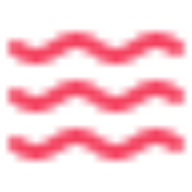
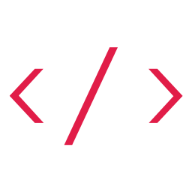
Update branding

diff --git a/pages/api/og.tsx b/pages/api/og.tsx
@@ -36,55 +36,31 @@ export default async function handler(req: NextRequest) {
       (
         <div tw="h-full w-full flex flex-col items-center justify-center bg-slate-300">
           <div
-            tw="flex flex-row items-center"
+            tw="flex flex-row items-center text-7xl"
             style={{
               marginBottom: title ? '8rem' : '0rem',
+              fontFamily: 'Red Hat Display',
             }}
           >
-            <div tw="h-full flex items-center justify-center">
-              <svg
-                xmlns="http://www.w3.org/2000/svg"
-                width="64"
-                height="64"
-                viewBox="0 0 32 32"
-                fill="none"
-                stroke="#BE123C"
-                opacity={0.4}
-                stroke-width="2"
-                stroke-linecap="round"
-                stroke-linejoin="round"
-                aria-hidden="true"
-              >
-                <path d="M2 6c.6.5 1.2 1 2.5 1C7 7 7 5 9.5 5c2.6 0 2.4 2 5 2 2.5 0 2.5-2 5-2 1.3 0 1.9.5 2.5 1"></path>
-                <path d="M2 12c.6.5 1.2 1 2.5 1 2.5 0 2.5-2 5-2 2.6 0 2.4 2 5 2 2.5 0 2.5-2 5-2 1.3 0 1.9.5 2.5 1"></path>
-                <path d="M2 18c.6.5 1.2 1 2.5 1 2.5 0 2.5-2 5-2 2.6 0 2.4 2 5 2 2.5 0 2.5-2 5-2 1.3 0 1.9.5 2.5 1"></path>
-              </svg>
-            </div>
+            <div tw="text-rose-600 dark:text-rose-400">‹</div>
             <h1
-              tw="h-full mx-2 text-7xl text-center text-slate-800"
-              style={{ fontFamily: 'Red Hat Display Bold' }}
+              tw="mx-0.5 font-semibold whitespace-nowrap text-center drop-shadow-sm text-slate-800 hover:text-rose-600 dark:text-rose-50 dark:hover:text-rose-400"
+              style={{
+                fontFamily: 'Red Hat Display Bold',
+              }}
             >
-              Kfir&apos;s Blog
-            </h1>
-            <div tw="h-full flex items-center justify-center ml-3">
-              <svg
-                xmlns="http://www.w3.org/2000/svg"
-                width="64"
-                height="64"
-                viewBox="0 0 32 32"
-                fill="none"
-                stroke="#BE123C"
-                opacity={0.4}
-                stroke-width="2"
-                stroke-linecap="round"
-                stroke-linejoin="round"
-                aria-hidden="true"
+              kfir
+              <span
+                tw="px-px font-light text-rose-600 dark:text-rose-400"
+                style={{
+                  fontFamily: 'Red Hat Display',
+                }}
               >
-                <path d="M2 6c.6.5 1.2 1 2.5 1C7 7 7 5 9.5 5c2.6 0 2.4 2 5 2 2.5 0 2.5-2 5-2 1.3 0 1.9.5 2.5 1"></path>
-                <path d="M2 12c.6.5 1.2 1 2.5 1 2.5 0 2.5-2 5-2 2.6 0 2.4 2 5 2 2.5 0 2.5-2 5-2 1.3 0 1.9.5 2.5 1"></path>
-                <path d="M2 18c.6.5 1.2 1 2.5 1 2.5 0 2.5-2 5-2 2.6 0 2.4 2 5 2 2.5 0 2.5-2 5-2 1.3 0 1.9.5 2.5 1"></path>
-              </svg>
-            </div>
+                /
+              </span>
+              blog
+            </h1>
+            <div tw="text-rose-600 dark:text-rose-400">›</div>
           </div>
 
           <div

diff --git a/components/blog-title.tsx b/components/blog-title.tsx
@@ -1,51 +1,38 @@
 'use client';
 
 import { useThemeStore } from '@/stores/theme-store';
-import { Waves } from 'lucide-react';
 import { cn } from '@/lib/utils';
 
 type BlogTitleProps = {
-  title?: string;
-  small?: boolean;
+  className?: string;
 };
 
-export function BlogTitle({ title = "Kfir's Blog", small }: BlogTitleProps) {
+export function BlogTitle({ className }: BlogTitleProps) {
   const isSerif = useThemeStore((state) => state.isSerif);
 
   return (
     <div
       className={cn(
-        small ? 'items-center' : 'items-baseline',
-        'inline-flex w-full justify-center',
+        'inline-flex w-full items-center justify-center',
+        className,
       )}
     >
-      <Waves
-        className={cn(
-          small ? 'h-4 w-4' : 'h-8 w-8',
-          'text-rose-700 text-opacity-40 dark:text-rose-400',
-        )}
-        aria-hidden
-      />
+      <div className="text-rose-600 dark:text-rose-400">‹</div>
       <h1
         className={cn(
           isSerif && 'font-serif',
-          small
-            ? 'mx-0.5 text-lg font-semibold'
-            : 'mx-2 pb-1.5 text-5xl font-bold sm:text-6xl',
-          'whitespace-nowrap text-center drop-shadow-sm',
+          'mx-0.5 font-semibold whitespace-nowrap text-center drop-shadow-sm',
           'text-slate-800 hover:text-rose-600',
           'dark:text-rose-50 dark:hover:text-rose-400',
         )}
       >
-        {title}
+        kfir
+        <span className="px-px font-light text-rose-600 dark:text-rose-400">
+          /
+        </span>
+        blog
       </h1>
-      <Waves
-        className={cn(
-          small ? 'h-4 w-4' : 'h-8 w-8',
-          'text-rose-700 text-opacity-40 dark:text-rose-400',
-        )}
-        aria-hidden
-      />
+      <div className="text-rose-600 dark:text-rose-400">›</div>
     </div>
   );
 }

diff --git a/components/seo.tsx b/components/seo.tsx
@@ -31,7 +31,24 @@ export function SEO({
       <meta name="twitter:site" content="@kp2c" />
       <meta name="twitter:creator" content="@kp2c" />
       <meta content="width=device-width, initial-scale=1" name="viewport" />
-      <link rel="icon" href="/favicon.ico" />
+      <link
+        rel="apple-touch-icon"
+        sizes="180x180"
+        href="/apple-touch-icon.png"
+      />
+      <link
+        rel="icon"
+        type="image/png"
+        sizes="32x32"
+        href="/favicon-32x32.png"
+      />
+      <link
+        rel="icon"
+        type="image/png"
+        sizes="16x16"
+        href="/favicon-16x16.png"
+      />
+      <link rel="manifest" href="/site.webmanifest" />
     </>
   );
 }

diff --git a/components/stories/blog-title.stories.tsx b/components/stories/blog-title.stories.tsx
@@ -6,9 +6,6 @@ const meta: Meta<typeof BlogTitle> = {
   title: 'Blog Title',
   component: BlogTitle,
   decorators: [Center],
-  args: {
-    title: "Kfir's Blog",
-  },
 };
 
 export default meta;
@@ -16,12 +13,12 @@ type Story = StoryObj<typeof BlogTitle>;
 
 export const Big: Story = {
   args: {
-    small: false,
+    className: 'text-6xl',
   },
 };
 
 export const Small: Story = {
   args: {
-    small: true,
+    className: 'text-lg',
   },
 };

diff --git a/app/head.tsx b/app/head.tsx
@@ -3,7 +3,7 @@ import { SEO } from '@/components/seo';
 export default function Head() {
   return (
     <SEO
-      title="Kfir's Blog"
+      title="‹kfir/blog›"
       description="My name is Kfir and I'm a Full Stack Developer.
       Welcome to my personal dev blog! I write about Web Development and other topics I'm interested in."
     />

diff --git a/app/posts/head.tsx b/app/posts/head.tsx
@@ -3,7 +3,7 @@ import { SEO } from '@/components/seo';
 export default function PostsPageHead() {
   return (
     <SEO
-      title="Kfir's Blog | Posts"
+      title="‹kfir/blog› | Posts"
       description="All my blog posts. I write about Web Development and other topics I'm interested in."
       ogImage={{ title: 'Posts' }}
     />

diff --git a/components/navigation-bar.tsx b/components/navigation-bar.tsx
@@ -24,7 +24,7 @@ export function NavigationBar({ className }: NavigationBarProps) {
         Posts
       </Link>
       <Link href="/" className="order-1 mr-2 xs:mr-4 sm:order-2">
-        <BlogTitle small />
+        <BlogTitle className="text-lg" />
       </Link>
       <Link
         href="/about"

diff --git a/app/posts/[...slug]/head.tsx b/app/posts/[...slug]/head.tsx
@@ -17,7 +17,7 @@ export default function PostPageHead({ params }: PostPageHeadProps) {
 
   return (
     <SEO
-      title={`Kfir's Blog | ${title}`}
+      title={`‹kfir/blog› | ${title}`}
       description={excerpt}
       ogType="article"
       ogImage={{

diff --git a/app/[...slug]/head.tsx b/app/[...slug]/head.tsx
@@ -17,7 +17,7 @@ export default async function PageHead({ params }: PageHeadProps) {
 
   return (
     <SEO
-      title={`Kfir's Blog | ${title}`}
+      title={`‹kfir/blog› | ${title}`}
       description={description}
       ogImage={{ title }}
     />

diff --git a/README.md b/README.md
@@ -1,4 +1,4 @@
-[![Kfir's Blog](https://user-images.githubusercontent.com/37262772/213295339-5db10dec-0fe4-45da-8689-3ba2e1bfb11d.png)](https://blog.kfirfitousi.com)  
+[![‹kfir/blog›](https://user-images.githubusercontent.com/37262772/213866538-70e7024e-64f5-4bd8-ba92-af803e6169e7.png)](https://blog.kfirfitousi.com)  
 ![Build Status](https://img.shields.io/github/deployments/kfirfitousi/blog/Production%20%E2%80%93%20blog?label=build&logo=vercel&style=for-the-badge)
 ![Website Status](https://img.shields.io/website?down_color=lightgrey&logo=vercel&style=for-the-badge&url=https%3A%2F%2Fblog.kfirfitousi.com)
 ![CI Status](https://img.shields.io/github/actions/workflow/status/kfirfitousi/blog/ci.yml?branch=main&label=CI&logo=github&style=for-the-badge)
